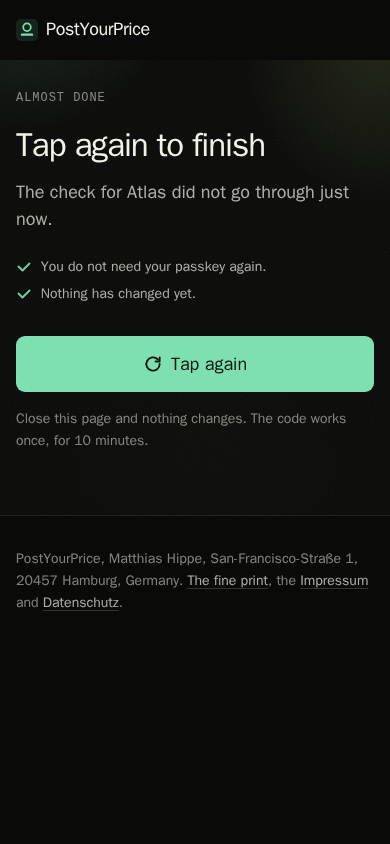
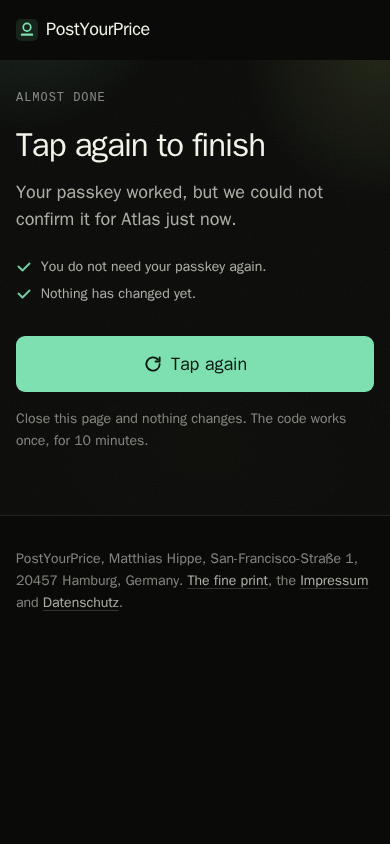
konto 05 Punkt 2: retry sagt, dass der Passkey ankam
Befund des Design Reviewers: „check“ benennt eine Kategorie. Neu: „Your
passkey worked, but we could not confirm it for Atlas just now.“

Changed region(s): [[0.0308, 0.2156, 0.8923, 0.2773]]

diff --git a/docs/soll/src/money-retry.html b/docs/soll/src/money-retry.html
@@ -889,7 +889,7 @@ main .shop .wrap > p.fine:last-child { margin-top: var(--s-8); }
     <div class="hero-text balanced">
       <p class="eyebrow">Almost done</p>
       <h1>Tap again to finish</h1>
-      <p class="sub">The check for Atlas did not go through just now.</p>
+      <p class="sub">Your passkey worked, but we could not confirm it for Atlas just now.</p>
       <div class="grant">
         <ul class="feats">
           <li>You do not need your passkey again.</li>
